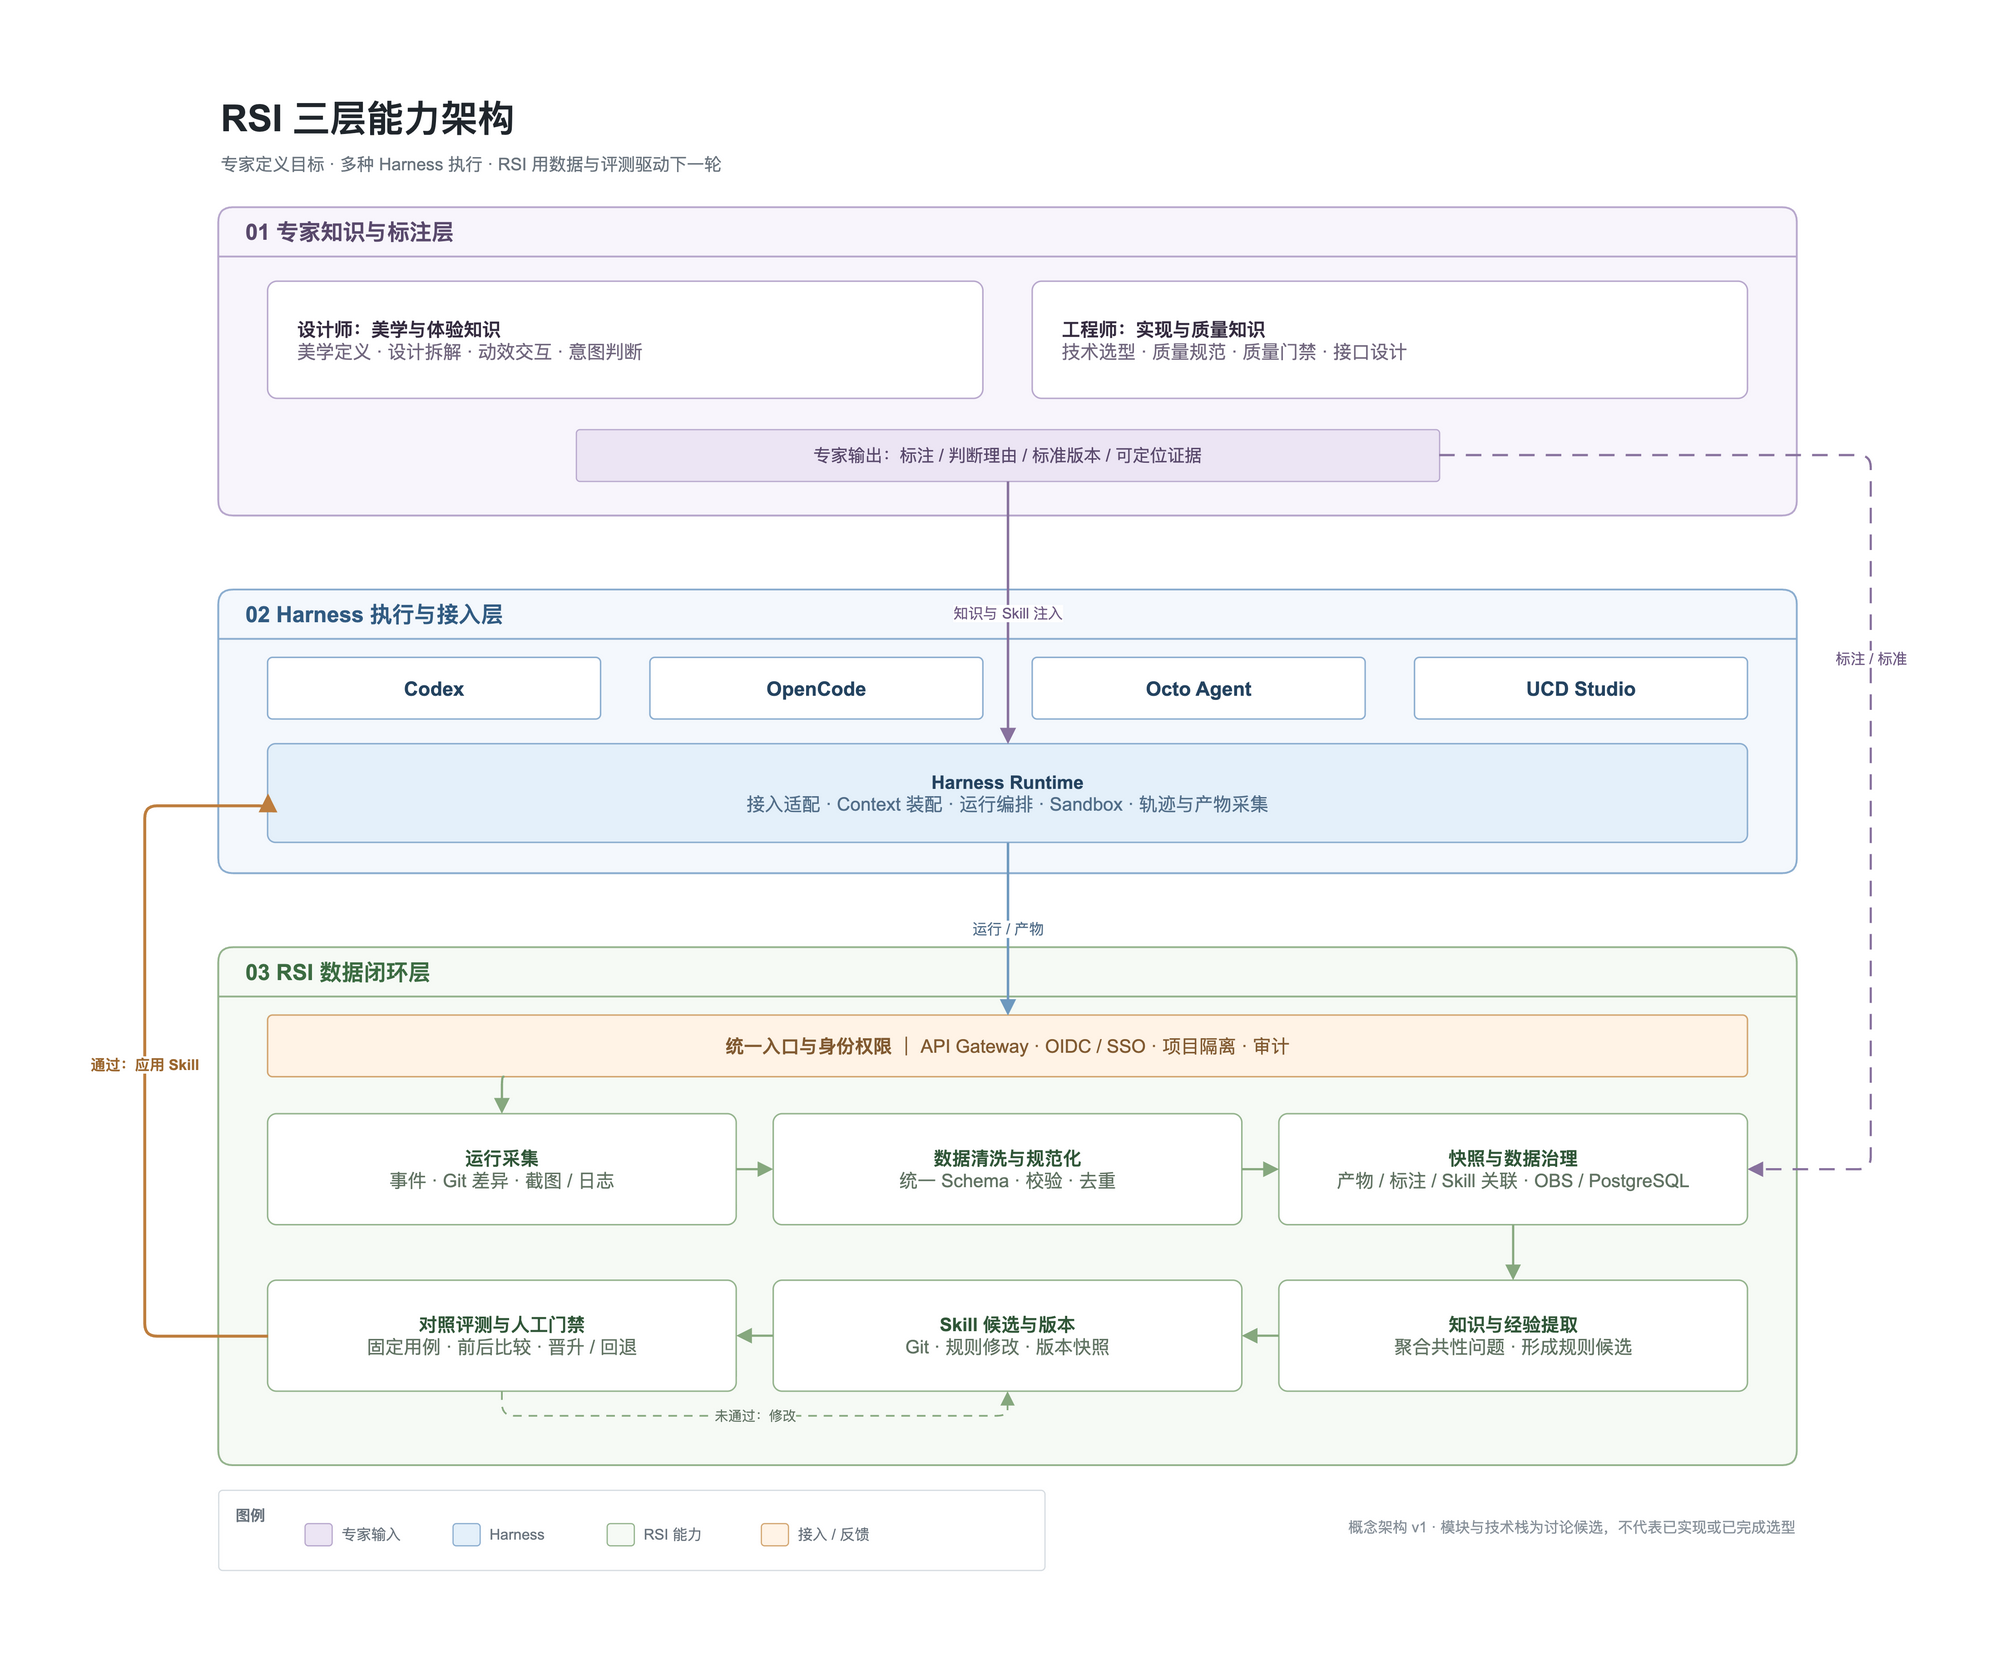
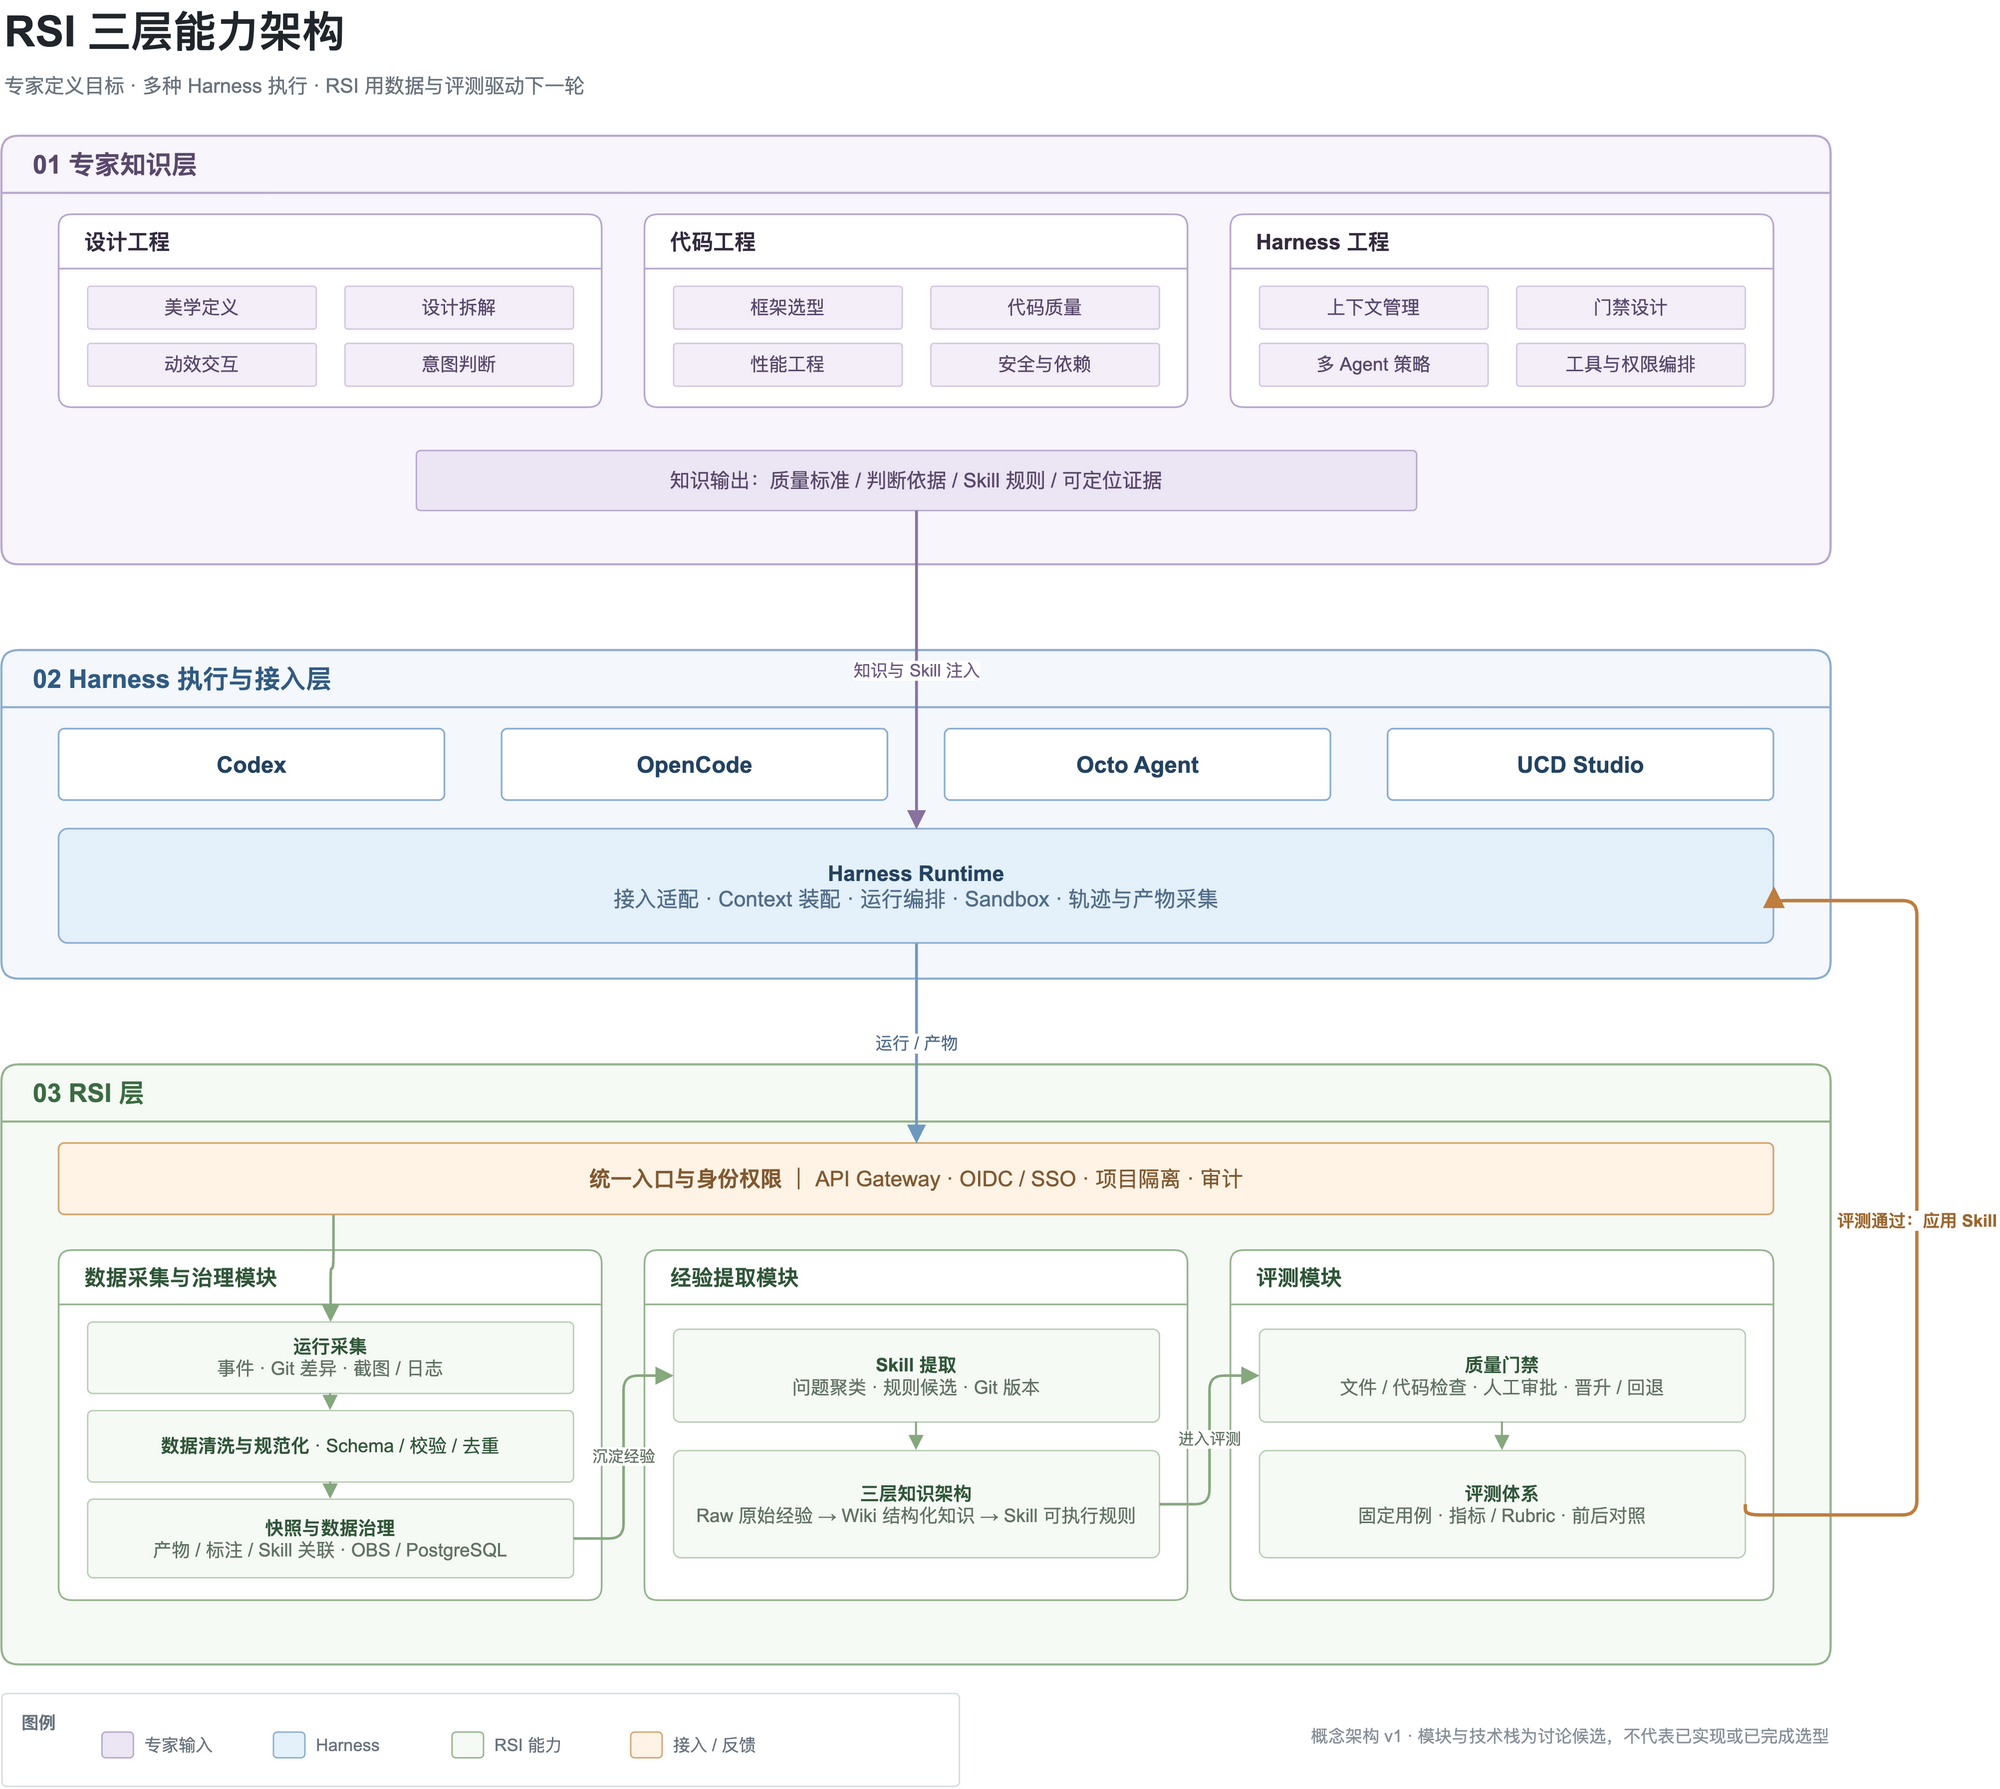
feat(design-harness): refine RSI three-layer architecture

diff --git a/web_design_harness/app/framework/page.tsx b/web_design_harness/app/framework/page.tsx
@@ -11,10 +11,10 @@ export default function FrameworkPage() {
       <p>Harness 正在成熟，架构日趋标准化，产品也逐渐同质化，已有不少成熟选择。现阶段更关键的是建立一套可复用的 RSI 流程：让 Codex、OpenCode、部门的 Octo Agent，乃至 UCD Studio 都能接入，在反复运行、评估与反馈中获得自我提升的能力。</p>
     </StorySection>
     <StorySection id="capability-architecture" number="02" title="把 RSI 拆成可组合的能力模块。">
-      <p>上层由设计师和工程师提供审美、体验与工程判断；中层让不同 Harness 通过 CLI、Skill、Hook 或插件接入；下层把运行采集、快照治理、经验提取、Skill 改动和对照评测连成循环。专家标注与每轮产物关联，评测通过的 Skill 再回到 Harness，驱动下一轮运行。</p>
+      <p>上层沉淀设计工程、代码工程与 Harness 工程的专业知识；中层让不同 Harness 通过统一 Runtime 接入；RSI 层则由数据采集与治理、经验提取和评测三个模块组成。运行数据先被整理成可追溯的快照，再从 Raw 原始经验逐层形成 Wiki 知识与可执行 Skill，最后经过质量门禁和评测体系验证，回到 Harness 驱动下一轮运行。</p>
       <figure className="proposal-image">
-        <a className="proposal-image-link" href="/rsi/rsi-three-layer-architecture-runtime-v1.png" target="_blank" rel="noreferrer" aria-label="查看 RSI 三层能力架构图原图（新标签页）">
-          <Image src="/rsi/rsi-three-layer-architecture-runtime-v1.png" alt="RSI 三层能力架构图：上层由设计师和工程师提供知识与标注；中层分别接入 Codex、OpenCode、Octo Agent 和 UCD Studio，由统一 Harness Runtime 负责知识装配、运行编排、隔离与产物采集；下层治理数据、提取经验、生成 Skill 候选并进行对照评测。" width={2000} height={1665} sizes="(max-width: 700px) 100vw, (max-width: 1023px) 90vw, 1100px" />
+        <a className="proposal-image-link" href="/rsi/rsi-three-layer-architecture-runtime-v3.png" target="_blank" rel="noreferrer" aria-label="查看 RSI 三层能力架构图原图（新标签页）">
+          <Image src="/rsi/rsi-three-layer-architecture-runtime-v3.png" alt="RSI 三层能力架构图：专家知识层沉淀设计工程、代码工程和 Harness 工程知识；Harness 层通过统一 Runtime 接入不同 Agent；RSI 层分为数据采集与治理、经验提取和评测三个模块，其中经验按照 Raw、Wiki、Skill 三层架构逐步形成可执行规则。" width={2000} height={1789} sizes="(max-width: 700px) 100vw, (max-width: 1023px) 90vw, 1100px" />
         </a>
         <figcaption><strong>RSI 三层能力架构</strong><span>概念架构讨论稿；模块边界与技术栈是候选方案，不代表已经实现或完成选型。</span></figcaption>
       </figure>
